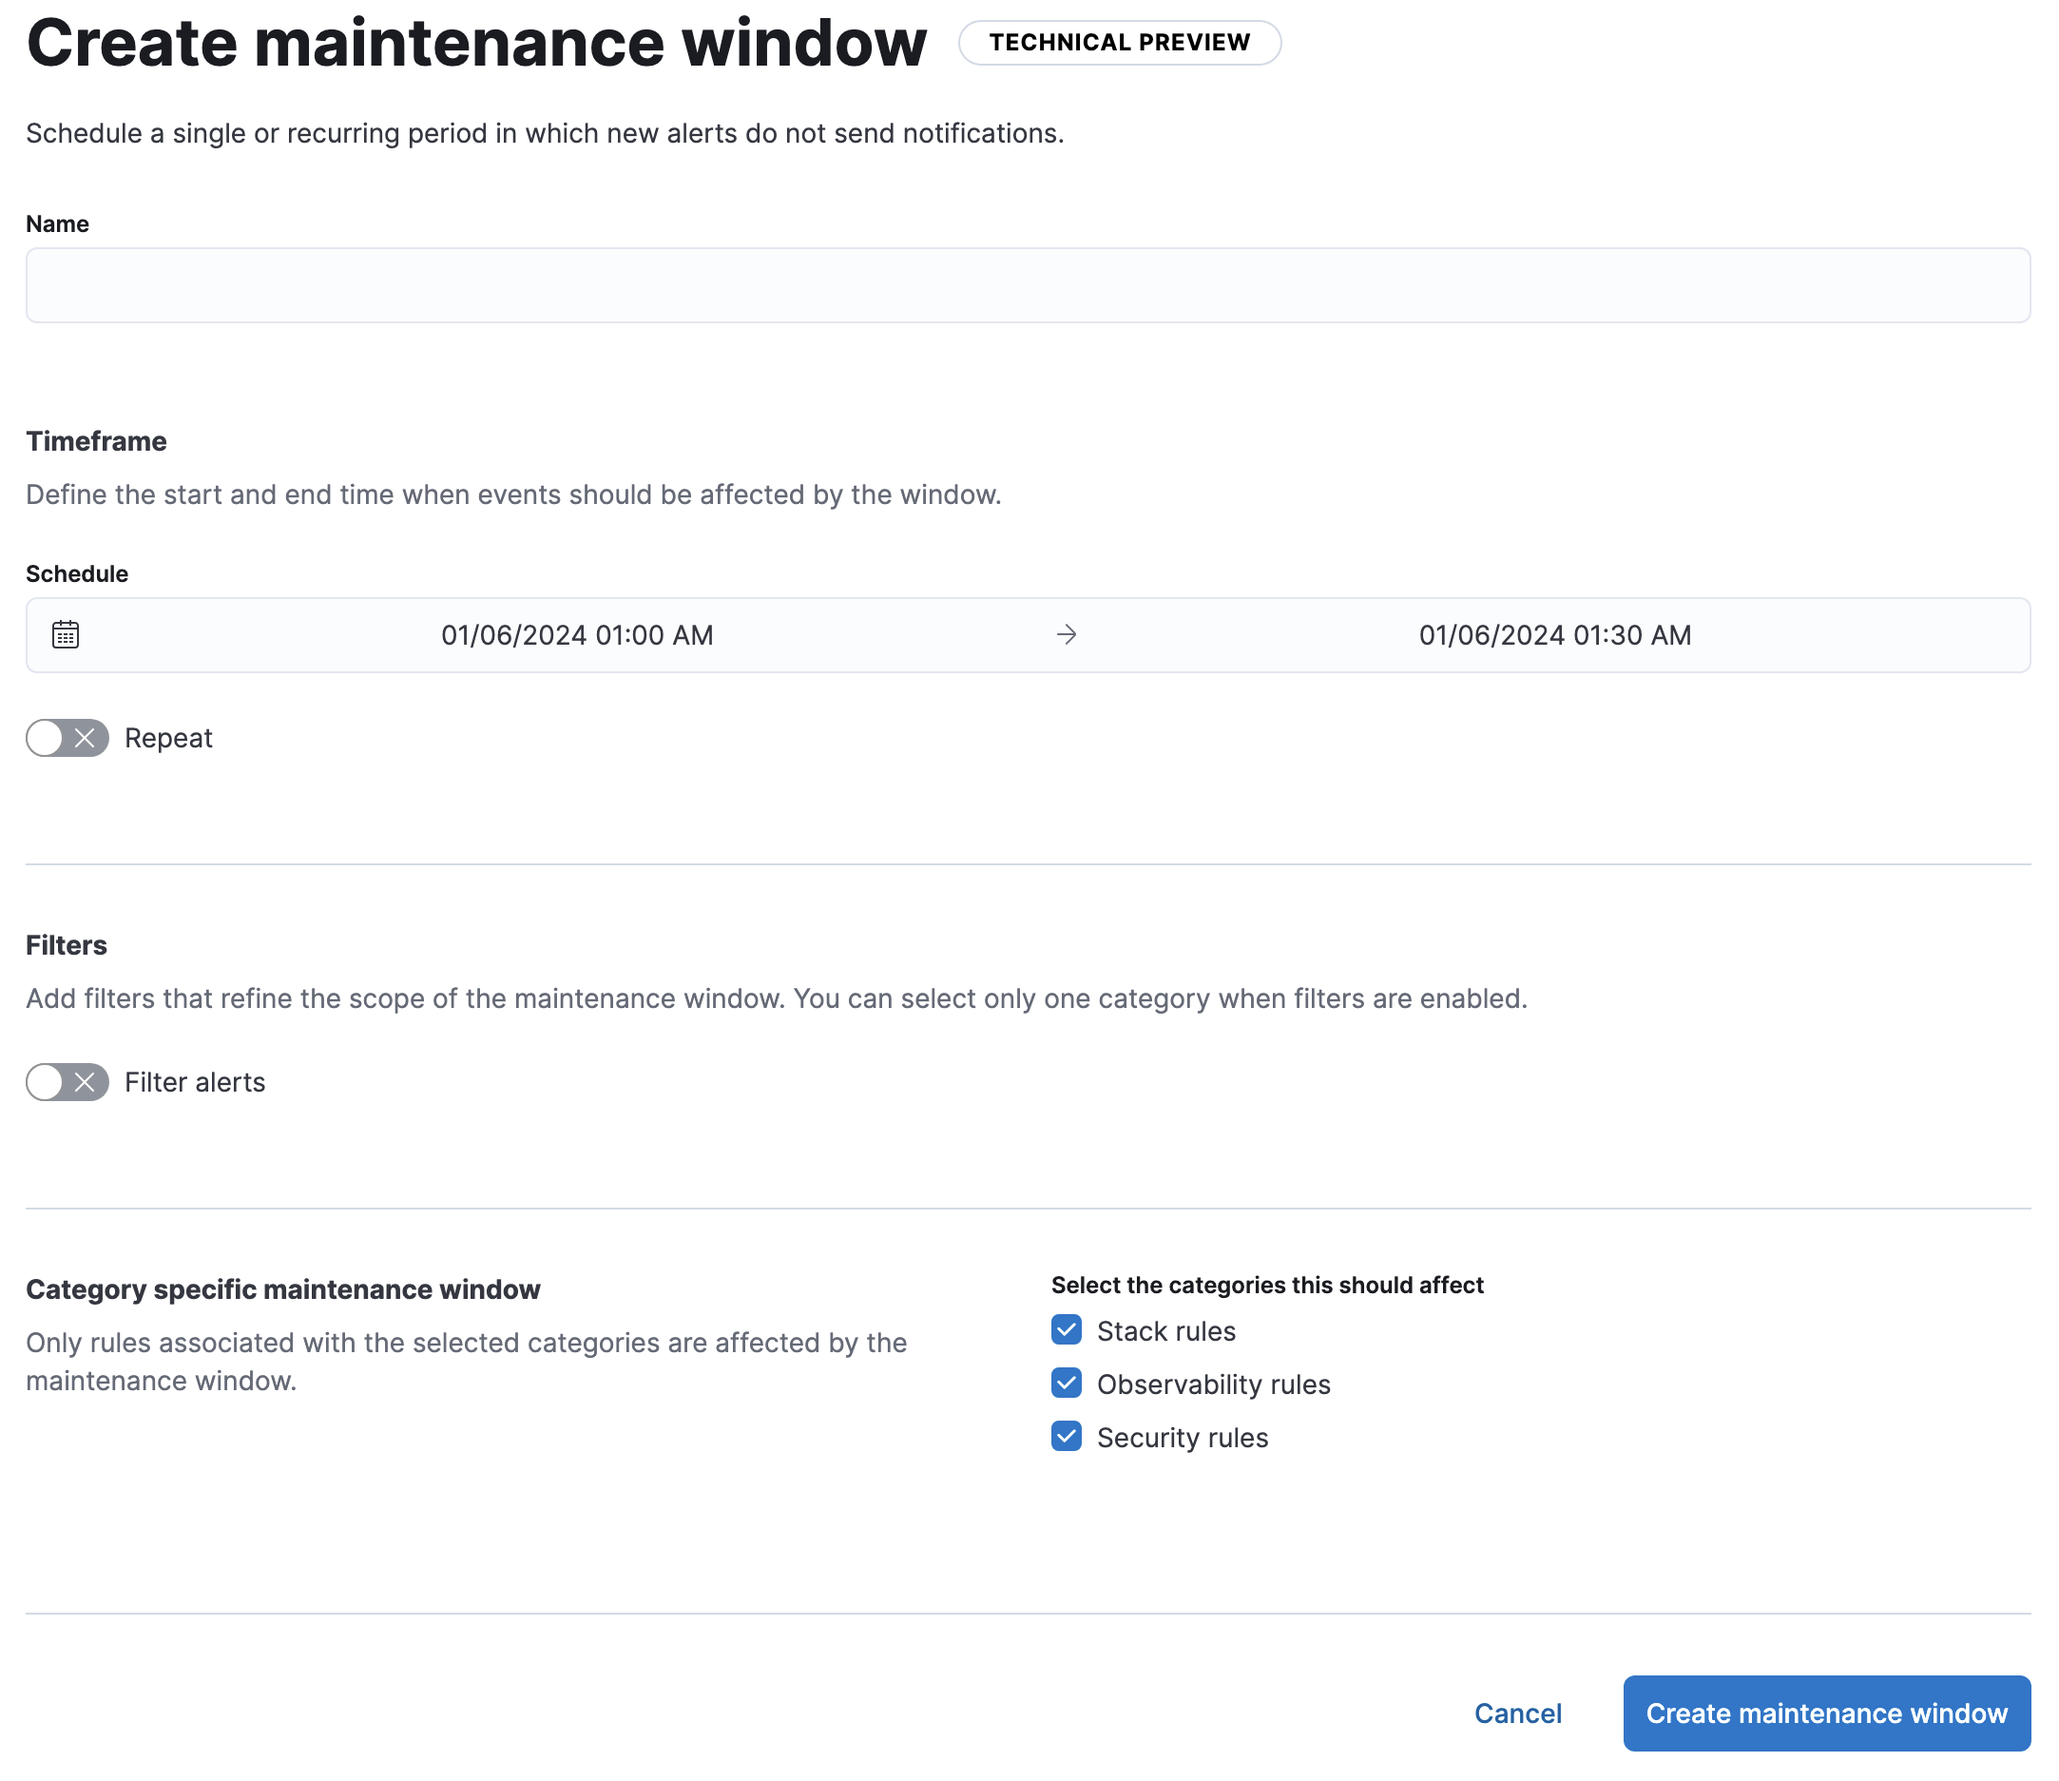
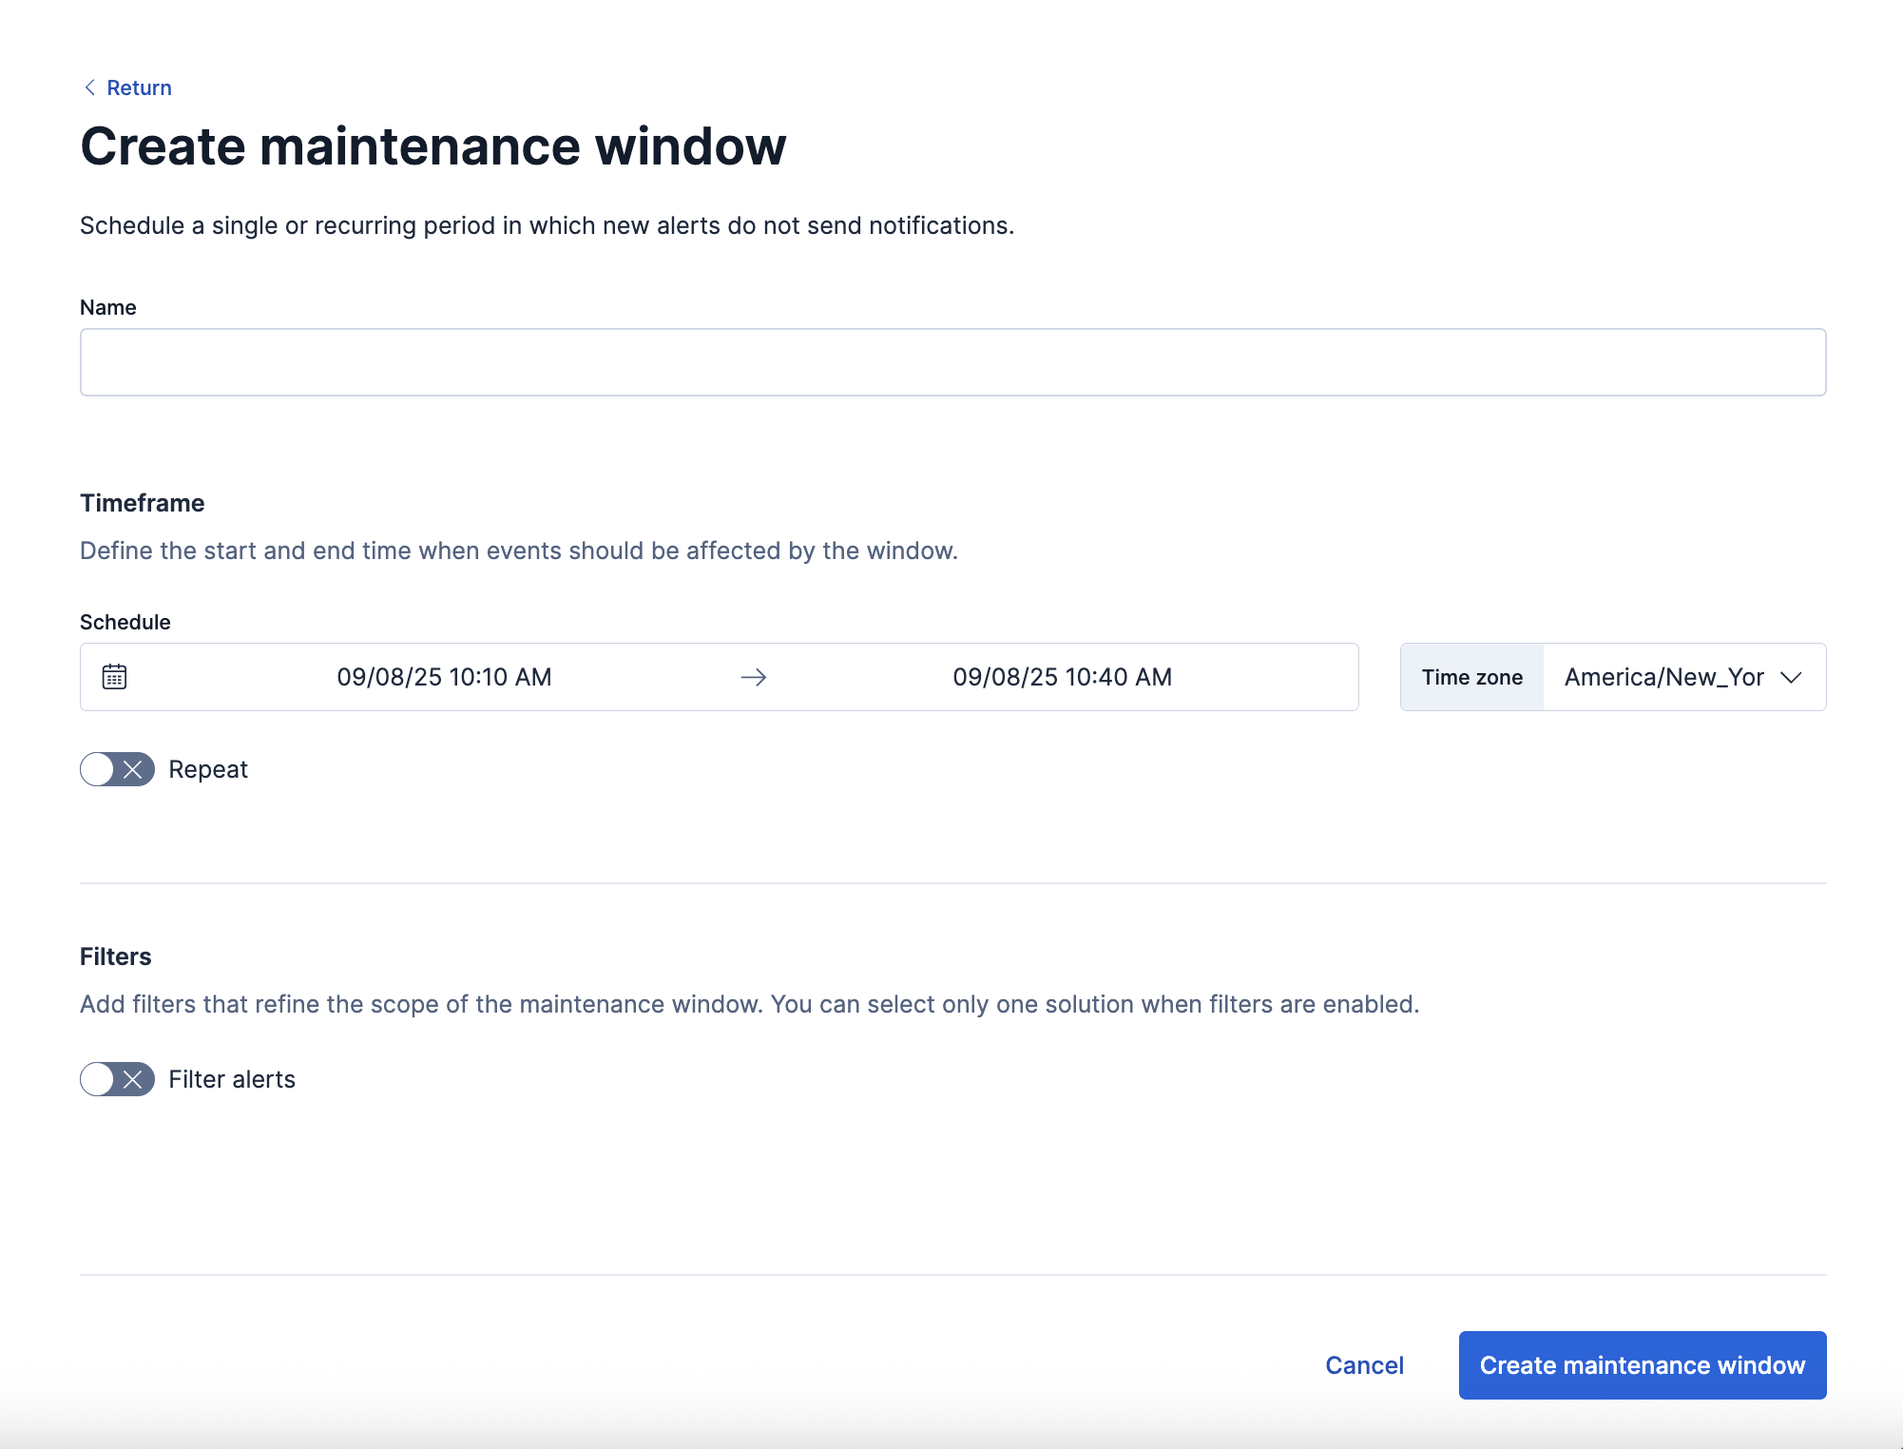
[ResponseOps][Docs]: Maintenance window GAing and category options removed (#2855)
Closes https://github.com/elastic/docs-content/issues/2796. Updates the
maintenance windows docs as follows:
- Updates the page-level `applies to` tags to show that the feature is
in tech preview for 9.0-91 and GA in 9.2 and Serverless.
- Removed the note at the top of the page that showed the feature was in
tech preview.
- Adds a note that explains that category-specific maintenance window
options are unavailable (removed) in 9.2 and Serverless. Also updated
the first item in the note further down that explains how you can select
only a single category when you turn on filters.
- Refreshes both images on the page since they show elements that are no
longer available in 9.2 and Serverless (the tech preview label and the
option to choose categories for the maintenance windows

Preview:
https://docs-v3-preview.elastic.dev/elastic/docs-content/pull/2855/explore-analyze/alerts-cases/alerts/maintenance-windows

diff --git a/explore-analyze/alerts-cases/alerts/maintenance-windows.md b/explore-analyze/alerts-cases/alerts/maintenance-windows.md
@@ -3,7 +3,7 @@ mapped_pages:
   - https://www.elastic.co/guide/en/kibana/current/maintenance-windows.html
   - https://www.elastic.co/guide/en/serverless/current/maintenance-windows.html
 applies_to:
-  stack: ga
+  stack: preview 9.0, ga 9.2
   serverless: ga
 products:
   - id: kibana
@@ -14,10 +14,6 @@ products:
 
 This content applies to: [![Observability](/explore-analyze/images/serverless-obs-badge.svg "")](../../../solutions/observability.md) [![Security](/explore-analyze/images/serverless-sec-badge.svg "")](../../../solutions/security/elastic-security-serverless.md)
 
-
-::::{warning}
-This functionality is in technical preview and may be changed or removed in a future release. Elastic will work to fix any issues, but features in technical preview are not subject to the support SLA of official GA features.
-::::
 
 You can schedule single or recurring maintenance windows to temporarily reduce rule notifications. For example, a maintenance window prevents false alarms during planned outages.
 
@@ -52,6 +48,15 @@ When you create a maintenance window, you must provide a name and a schedule. Yo
 
 By default, maintenance windows affect all categories of rules. The category-specific maintenance window options alter this behavior. For the definitive list of rule types in each category, refer to the [get rule types API](https://www.elastic.co/docs/api/doc/kibana/group/endpoint-alerting).
 
+::::{note}
+
+{applies_to}`stack: removed 9.2` {applies_to}`serverless: removed` The option to specify rule categories for a maintenance window is no longer available. Maintenance windows apply to all rule types.
+
+Note that existing maintenance windows are still applied to rule categories that were specified. However, if you edit a maintenance window after upgrading or using the latest version of {{serverless-short}}, specified rule categories are removed and the maintenance window will be applied to all rules types.
+
+
+::::
+
 If you turn on **Filter alerts**, you can use KQL to filter the alerts affected by the maintenance window:
 
 :::{image} /explore-analyze/images/kibana-create-maintenance-window-filter.png
@@ -61,7 +66,7 @@ If you turn on **Filter alerts**, you can use KQL to filter the alerts affected 
 
 ::::{note}
 
-* You can select only a single category when you turn on filters.
+* {applies_to}`stack: removed 9.2` {applies_to}`serverless: removed` You can select only a single category when you turn on filters.
 * Some rules are not affected by maintenance window filters because their alerts do not contain requisite data. In particular, [{{stack-monitor-app}}](../../../deploy-manage/monitor/monitoring-data/configure-stack-monitoring-alerts.md), [tracking containment](../../../explore-analyze/alerts-cases/alerts/geo-alerting.md), [{{anomaly-jobs}} health](../../../explore-analyze/machine-learning/anomaly-detection/ml-configuring-alerts.md), and [transform health](../../../explore-analyze/transforms/transform-alerts.md) rules are not affected by the filters.
 
 ::::
